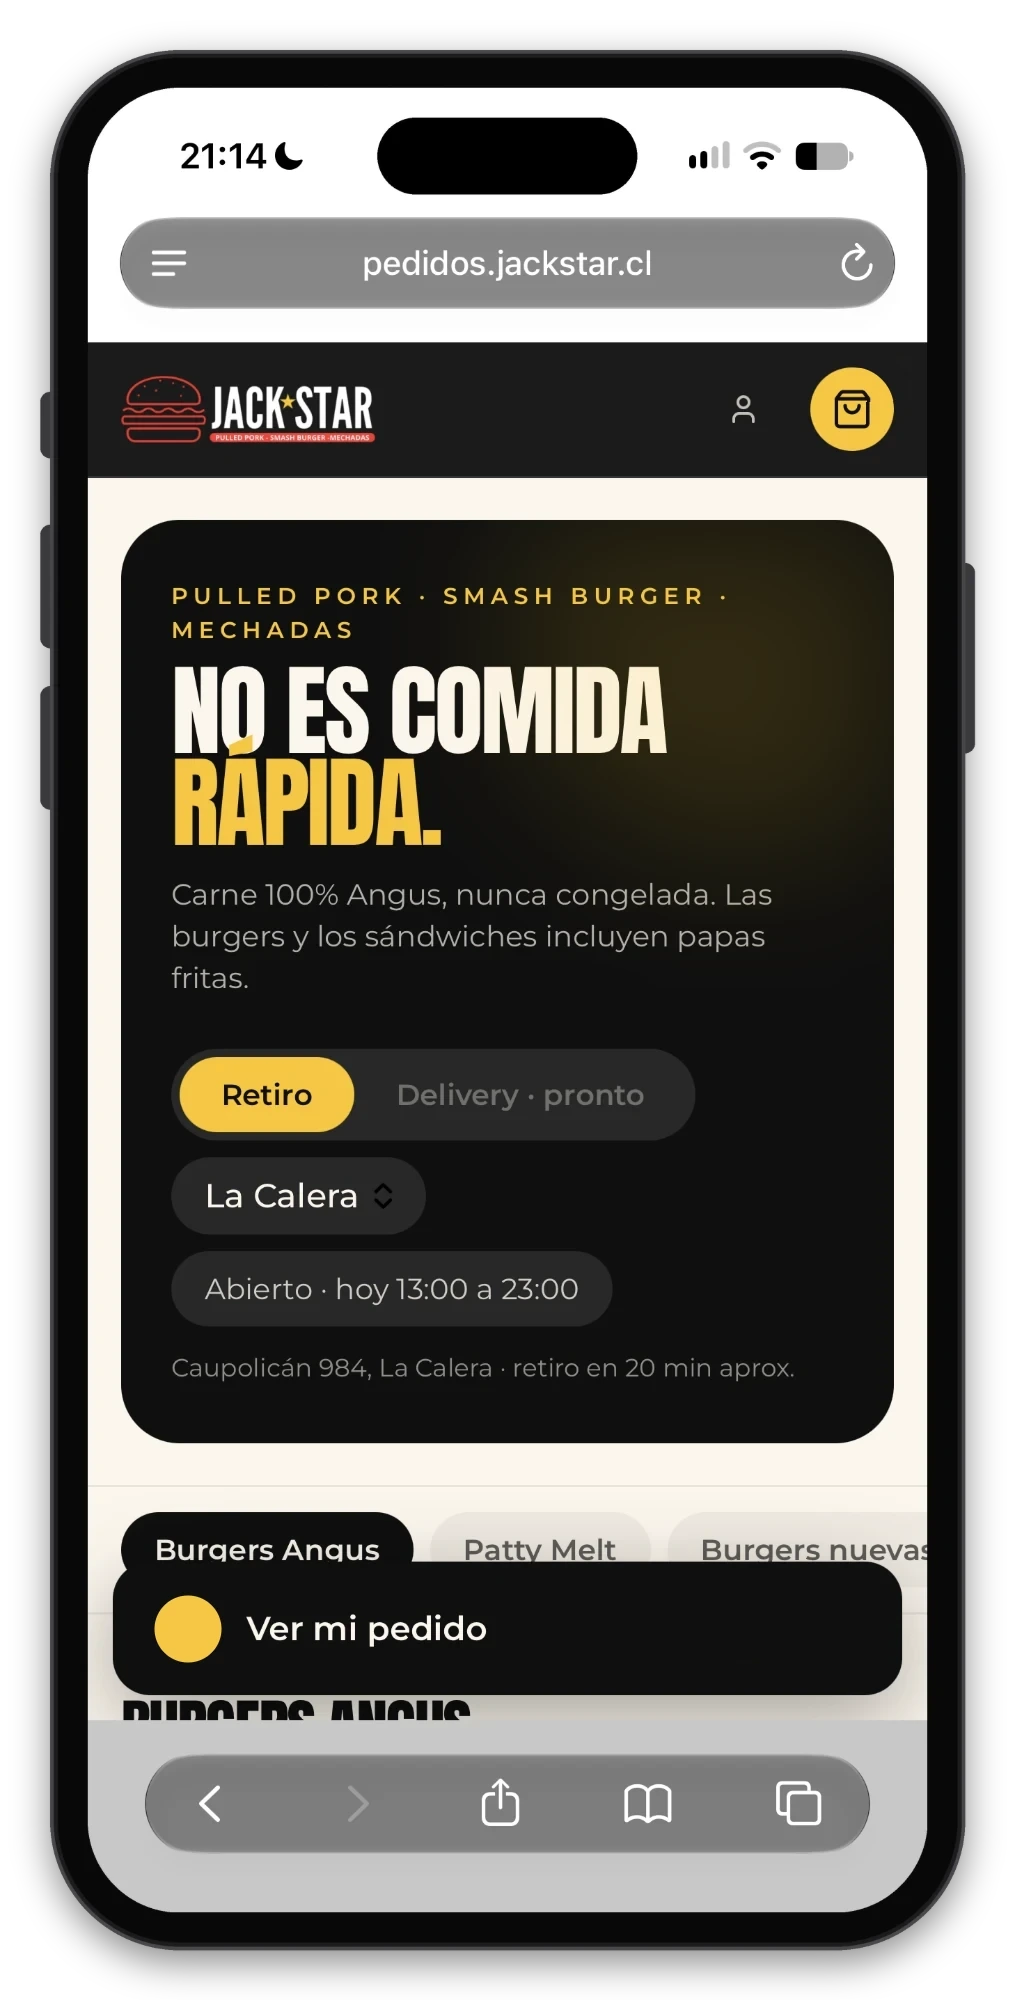
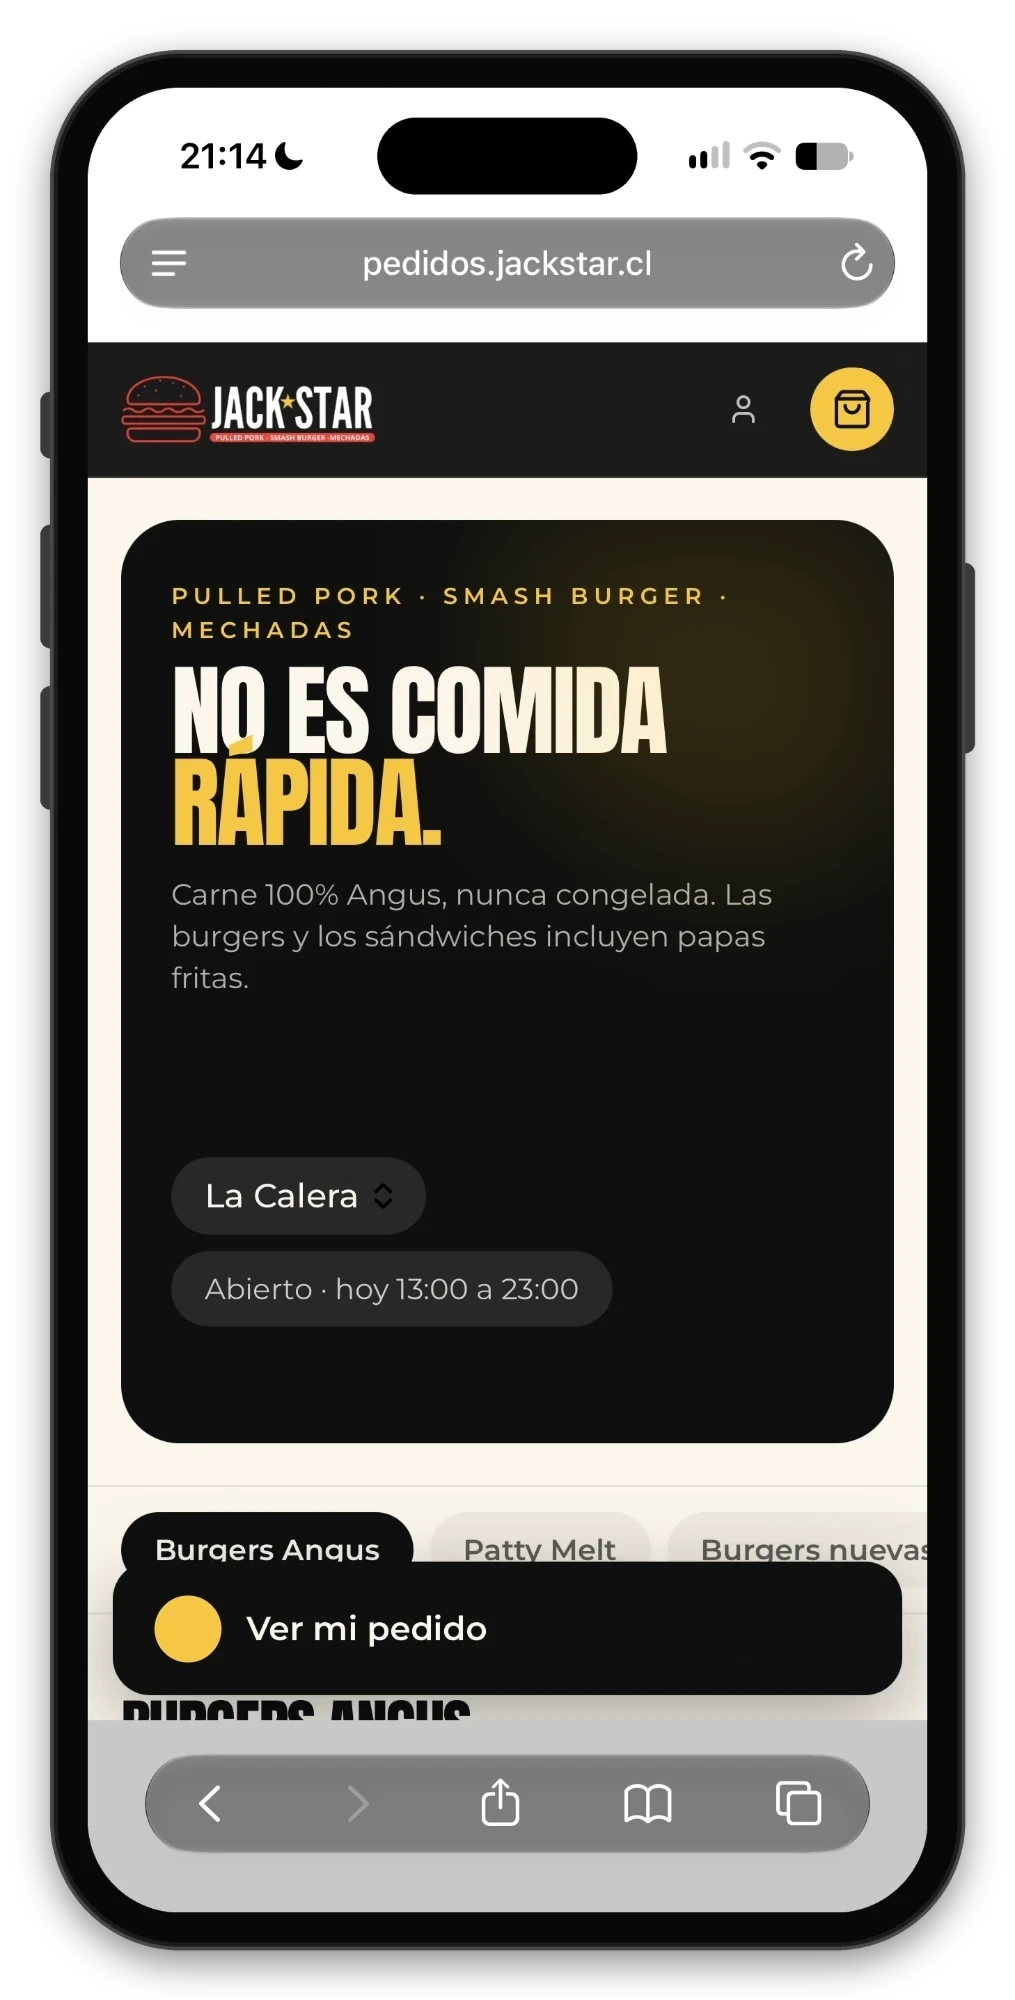
Pedidos online: delivery o retiro y seguimiento en vivo en la animación
- Textos de la sección hablan de delivery o retiro y del seguimiento en vivo
- El selector del mockup ahora es HTML y la animación lo pasa de Retiro a Delivery
- Tras confirmar el pedido sube una hoja de seguimiento: estados, mapa con la moto en ruta y minutos que bajan

Changed region(s): [[0.1527, 0.527, 0.7025, 0.589]]

diff --git a/index.html b/index.html
@@ -7,7 +7,7 @@
 <title>Jack Star — Hamburguesas de Culto</title>
 <link rel="preconnect" href="https://fonts.googleapis.com" />
 <link rel="preconnect" href="https://fonts.gstatic.com" crossorigin />
-<link href="https://fonts.googleapis.com/css2?family=Bebas+Neue&family=Playfair+Display:ital,wght@0,700;1,400&family=DM+Sans:wght@300;400;500&display=swap" rel="stylesheet" />
+<link href="https://fonts.googleapis.com/css2?family=Bebas+Neue&family=Playfair+Display:ital,wght@0,700;1,400&family=DM+Sans:wght@300;400;500&family=Montserrat:wght@500;600;700&display=swap" rel="stylesheet" />
 <link rel="icon" type="image/png" href="photos/favicon.png" />
 <link rel="apple-touch-icon" href="photos/favicon.png" />
 <style>
@@ -588,6 +588,61 @@
   .ph-toast small { display: block; font-size: 2.8cqw; color: #555; line-height: 1.3; }
   .ph-fly { position: absolute; width: 22%; aspect-ratio: 1; object-fit: cover; border-radius: 18%; border: .6cqw solid #f6c745; box-shadow: 0 3cqw 5cqw rgba(0,0,0,.5); opacity: 0; visibility: hidden; }
 
+  .ph-seg {
+    position: absolute; left: 16.95%; top: 52.45%; width: 51.53%; height: 4.6%;
+    display: flex; align-items: center; padding: 0 .79cqw; border-radius: 999px; background: #282828;
+    font-family: "Montserrat", sans-serif; font-weight: 600; font-size: 3cqw;
+  }
+  .ph-seg-knob { position: absolute; left: .79cqw; top: 50%; width: 17.14cqw; height: 7.29cqw; translate: 0 -50%; border-radius: 999px; background: #f4c745; }
+  .ph-seg-opt { position: relative; text-align: center; color: #71716f; transition: color .25s; }
+  .ph-seg-opt:first-of-type { width: 17.14cqw; }
+  .ph-seg-opt:last-of-type { flex: 1; }
+  .ph-seg-opt.is-on { color: #111; }
+  .ph-addr { position: absolute; left: 17.04%; top: 68.45%; translate: 0 -50%; white-space: nowrap; font-family: "Montserrat", sans-serif; font-weight: 500; font-size: 2.3cqw; color: #999997; }
+  .ph-addr-delivery { opacity: 0; }
+
+  .ph-track {
+    position: absolute; left: 8.67%; right: 8.67%; bottom: 14%;
+    padding: 4.4cqw 4.8cqw 5cqw; border-radius: 5cqw 5cqw 0 0;
+    background: #faf6ef; color: #111; font-family: "Montserrat", sans-serif;
+    box-shadow: 0 -3cqw 8cqw rgba(0,0,0,.45); opacity: 0; visibility: hidden;
+  }
+  .trk-head { display: flex; justify-content: space-between; align-items: center; }
+  .trk-head strong { font-size: 3.9cqw; font-weight: 700; }
+  .trk-live { display: inline-flex; align-items: center; gap: 1.2cqw; padding: .9cqw 2.2cqw; border-radius: 999px; background: #c8000a; color: #fff; font-size: 2.3cqw; font-weight: 600; letter-spacing: .12em; text-transform: uppercase; }
+  .trk-live i { width: 1.6cqw; height: 1.6cqw; border-radius: 50%; background: #fff; animation: livePing 1.2s ease-in-out infinite; }
+  .trk-eta { margin-top: 1.6cqw; font-size: 3cqw; font-weight: 500; color: #555; }
+  .trk-eta b { font-family: "Bebas Neue", sans-serif; font-weight: 400; font-size: 7.5cqw; color: #111; vertical-align: -.6cqw; }
+  .trk-map {
+    position: relative; margin-top: 2.6cqw; height: 30cqw; border-radius: 3cqw; overflow: hidden;
+    background-color: #1a1a1a;
+    background-image: linear-gradient(rgba(255,255,255,.05) 1px, transparent 1px), linear-gradient(90deg, rgba(255,255,255,.05) 1px, transparent 1px);
+    background-size: 6cqw 6cqw;
+  }
+  .trk-map svg { position: absolute; inset: 0; width: 100%; height: 100%; overflow: visible; }
+  .trk-route { fill: none; stroke: rgba(244,199,69,.35); stroke-width: 3; stroke-dasharray: 6 6; }
+  .trk-done { fill: none; stroke: #f4c745; stroke-width: 4; stroke-linecap: round; }
+  .trk-store { fill: #c8000a; stroke: #fff; stroke-width: 2; }
+  .trk-home { fill: #fff; stroke: #f4c745; stroke-width: 3; }
+  .trk-moto circle { fill: #f4c745; }
+  .trk-moto .trk-moto-ring { fill: rgba(244,199,69,.3); }
+  .trk-tag { position: absolute; font-size: 2.2cqw; font-weight: 600; color: rgba(255,255,255,.75); }
+  .trk-tag-a { left: 3cqw; bottom: 2.4cqw; }
+  .trk-tag-b { right: 3cqw; top: 2.2cqw; }
+  .trk-steps { position: relative; margin-top: 3.4cqw; display: grid; grid-template-columns: repeat(4, 1fr); text-align: center; }
+  .trk-bar { position: absolute; left: 12.5%; right: 12.5%; top: 1.1cqw; height: .6cqw; border-radius: 999px; background: #e3ddd2; }
+  .trk-fill { display: block; width: 0; height: 100%; border-radius: inherit; background: #c8000a; }
+  .trk-step { position: relative; padding-top: 4cqw; font-size: 2.3cqw; font-weight: 600; color: #a9a39a; transition: color .3s; }
+  .trk-step::before {
+    content: ""; position: absolute; top: 0; left: 50%; width: 2.8cqw; height: 2.8cqw; translate: -50% 0; border-radius: 50%;
+    background: #e3ddd2; transition: background .3s, box-shadow .3s;
+  }
+  .trk-step.is-on { color: #111; }
+  .trk-step.is-on::before { background: #c8000a; box-shadow: 0 0 0 1.2cqw rgba(200,0,10,.18); }
+  .online-chip i.live { background: var(--red); animation: liveDot 1.2s ease-in-out infinite; }
+  @keyframes livePing { 50% { opacity: .3; } }
+  @keyframes liveDot { 50% { box-shadow: 0 0 0 6px rgba(200,0,10,0); opacity: .5; } }
+
   .online-chip {
     position: absolute; z-index: 2; display: inline-flex; align-items: center; gap: .5rem;
     padding: .6rem 1rem; border-radius: 999px; white-space: nowrap;
@@ -599,7 +654,7 @@
   .online-chip b { color: var(--gold); font-weight: 500; }
   .online-chip i { width: 8px; height: 8px; border-radius: 50%; background: #2ecc71; box-shadow: 0 0 0 0 rgba(46,204,113,.6); animation: dotPing 1.8s infinite; }
   .chip-a { top: 9%; left: 2%; }
-  .chip-b { top: 46%; right: 0; animation-delay: -1.6s; }
+  .chip-b { top: 30%; right: 0; animation-delay: -1.6s; }
   .chip-c { bottom: 9%; left: 6%; animation-delay: -3.2s; }
   @keyframes chipFloat { 0%,100% { translate: 0 0; } 50% { translate: 0 -10px; } }
   @keyframes dotPing { 70% { box-shadow: 0 0 0 8px rgba(46,204,113,0); } 100% { box-shadow: 0 0 0 0 rgba(46,204,113,0); } }
@@ -619,7 +674,7 @@
     .online-cuenta { position: static; margin-top: .6rem; text-align: center; }
   }
   @media (prefers-reduced-motion: reduce) {
-    .btn-online, .online-nuevo::after, .online-ring, .online-chip, .online-chip i { animation: none !important; }
+    .btn-online, .online-nuevo::after, .online-ring, .online-chip, .online-chip i, .trk-live i { animation: none !important; }
   }
 </style>
 </head>
@@ -673,12 +728,12 @@
 <section id="pedir" class="online-section">
   <div class="online-copy">
     <div class="section-label">Nuevo · Pedidos online</div>
-    <h2 class="online-title">Pides en<br>un minuto.<br><span class="red">Retiras en 20.</span></h2>
-    <p class="online-sub">Elige tu local, arma tu pedido y pásalo a buscar. Sin llamadas y sin esperar respuesta por WhatsApp.</p>
+    <h2 class="online-title">Pides en<br>un minuto.<br><span class="red">Lo sigues en vivo.</span></h2>
+    <p class="online-sub">Delivery a tu casa o retiro en el local. Arma tu pedido y mira cómo avanza, desde la cocina hasta tu puerta. Sin llamadas y sin esperar respuesta por WhatsApp.</p>
     <ol class="online-steps">
-      <li class="online-step is-active"><span class="online-step-num">01</span><div><strong>Elige tu local</strong><span>Quillota o La Calera, retiro en el local.</span></div></li>
+      <li class="online-step is-active"><span class="online-step-num">01</span><div><strong>Delivery o retiro</strong><span>Te lo llevamos o lo pasas a buscar a Quillota o La Calera.</span></div></li>
       <li class="online-step"><span class="online-step-num">02</span><div><strong>Arma tu pedido</strong><span>Toda la carta, con tus agregados.</span></div></li>
-      <li class="online-step"><span class="online-step-num">03</span><div><strong>Confirma y retira</strong><span>Llegas, dices tu código y te lo llevas.</span></div></li>
+      <li class="online-step"><span class="online-step-num">03</span><div><strong>Síguelo en vivo</strong><span>Ves cuando entra a cocina, cuando sale y cuando llega.</span></div></li>
     </ol>
     <div class="online-wrap online-wrap-cta">
       <a href="https://pedidos.jackstar.cl" target="_blank" rel="noopener" class="btn-primary btn-online js-online is-locked" aria-disabled="true">
@@ -702,15 +757,37 @@
         <span class="ph-price">$17.400</span>
         <span class="ph-bar-hl"></span>
         <span class="ph-tap"></span>
-        <div class="ph-toast"><b>✓</b><div><strong>Pedido C-4 recibido</strong><small>Listo para retiro en 20 min</small></div></div>
+        <div class="ph-seg"><span class="ph-seg-knob"></span><span class="ph-seg-opt is-on">Retiro</span><span class="ph-seg-opt">Delivery</span></div>
+        <span class="ph-addr ph-addr-retiro">Caupolicán 984, La Calera · retiro en 20 min aprox.</span>
+        <span class="ph-addr ph-addr-delivery">Delivery a tu dirección · llega en 35 min aprox.</span>
+        <div class="ph-toast"><b>✓</b><div><strong>Pedido C-4 recibido</strong><small>Síguelo en vivo desde aquí</small></div></div>
+        <div class="ph-track">
+          <div class="trk-head"><strong>Pedido C-4</strong><span class="trk-live"><i></i>En vivo</span></div>
+          <div class="trk-eta">Llega en <b class="trk-min">35</b> min</div>
+          <div class="trk-map">
+            <svg viewBox="0 0 300 123">
+              <path class="trk-route" d="M26 98 C 84 104, 88 34, 148 50 S 238 106, 274 26" />
+              <path class="trk-done" d="M26 98 C 84 104, 88 34, 148 50 S 238 106, 274 26" />
+              <circle class="trk-store" cx="26" cy="98" r="8" />
+              <circle class="trk-home" cx="274" cy="26" r="8" />
+              <g class="trk-moto"><circle class="trk-moto-ring" r="12" /><circle r="7" /></g>
+            </svg>
+            <span class="trk-tag trk-tag-a">Jack Star</span>
+            <span class="trk-tag trk-tag-b">Tu casa</span>
+          </div>
+          <div class="trk-steps">
+            <div class="trk-bar"><span class="trk-fill"></span></div>
+            <span class="trk-step">Recibido</span><span class="trk-step">En cocina</span><span class="trk-step">En camino</span><span class="trk-step">Entregado</span>
+          </div>
+        </div>
         <img class="ph-fly" src="photos/burger-1-la-mas-pedida.jpg" alt="" />
         <img class="ph-fly" src="photos/burger-2-imprescindible.jpg" alt="" />
         <img class="ph-fly" src="photos/burger-3-favorita-del-local.jpg" alt="" />
       </div>
     </div>
     <div class="online-chip chip-a" aria-hidden="true"><i></i>Abierto hoy · 13:00 a 23:00</div>
-    <div class="online-chip chip-b" aria-hidden="true">Retiro en <b>20 min</b></div>
-    <div class="online-chip chip-c" aria-hidden="true">Delivery · <b>muy pronto</b></div>
+    <div class="online-chip chip-b" aria-hidden="true">Delivery <b>o</b> retiro</div>
+    <div class="online-chip chip-c" aria-hidden="true"><i class="live"></i>Seguimiento <b>en vivo</b></div>
   </div>
 </section>
 
@@ -1162,14 +1239,42 @@
       .to(tap, { scale: 1.7, opacity: 0, duration: .6, ease: "power2.out" });
     const salidas = [{ l: -38, t: 42, r: -25 }, { l: 128, t: 34, r: 20 }, { l: -34, t: 64, r: -15 }];
 
-    const tl = gsap.timeline({ paused: true, repeat: -1, repeatDelay: .5 });
-    tl.call(() => { estado.n = 0; estado.p = 0; pintar(); paso(0)(); }, null, 0)
+    const knob = q(".ph-seg-knob")[0], opts = q(".ph-seg-opt"), addrR = q(".ph-addr-retiro")[0], addrD = q(".ph-addr-delivery")[0];
+    const track = q(".ph-track")[0], fill = q(".trk-fill")[0], trkPasos = q(".trk-step"), eta = q(".trk-eta")[0];
+    const ruta = q(".trk-done")[0], moto = q(".trk-moto")[0], largo = ruta.getTotalLength();
+    const viaje = { t: 0 };
+    const mover = () => {
+      const pt = ruta.getPointAtLength(viaje.t * largo);
+      moto.setAttribute("transform", `translate(${pt.x} ${pt.y})`);
+      ruta.style.strokeDashoffset = largo * (1 - viaje.t);
+    };
+    ruta.style.strokeDasharray = largo;
+    const minutos = { m: 35 };
+    const pintarEta = () => { eta.innerHTML = `Llega en <b class="trk-min">${Math.round(minutos.m)}</b> min`; };
+    const trkPaso = i => () => trkPasos.forEach((el, j) => el.classList.toggle("is-on", j <= i));
+    const modo = delivery => () => {
+      opts[0].classList.toggle("is-on", !delivery); opts[1].classList.toggle("is-on", delivery);
+    };
+
+    const tl = gsap.timeline({ paused: true, repeat: -1, repeatDelay: .4 });
+    tl.call(() => {
+        estado.n = 0; estado.p = 0; pintar(); paso(0)(); modo(false)();
+        viaje.t = 0; mover(); minutos.m = 35; pintarEta(); trkPaso(-1)();
+      }, null, 0)
       .set(badge, { scale: 0 }, 0)
       .set(toast, { opacity: 0, y: -24, scale: .96 }, 0)
       .set(flies, { autoAlpha: 0 }, 0)
-      .add(toque(26.3, 54.75), .35)
-      .fromTo(chips[1], { scale: 1 }, { scale: 1.08, duration: .2, yoyo: true, repeat: 1 }, .5)
-      .add(toque(29.5, 59.75), 1.15)
+      .set(knob, { left: ".79cqw", width: "17.14cqw" }, 0)
+      .set(addrR, { opacity: 1 }, 0).set(addrD, { opacity: 0 }, 0)
+      .set(track, { autoAlpha: 0, yPercent: 100 }, 0)
+      .set(fill, { width: "0%" }, 0)
+      .add(toque(51, 54.75), .35)
+      .fromTo(knob, { left: ".79cqw", width: "17.14cqw" }, { left: "18.6cqw", width: "31.9cqw", duration: .5, ease: "power3.inOut" }, .45)
+      .call(modo(true), null, .6)
+      .to(addrR, { opacity: 0, duration: .25 }, .6)
+      .fromTo(addrD, { opacity: 0, x: 8 }, { opacity: 1, x: 0, duration: .35 }, .75)
+      .fromTo(chips[1], { scale: 1 }, { scale: 1.08, duration: .2, yoyo: true, repeat: 1 }, .6)
+      .add(toque(29.5, 59.75), 1.3)
       .call(paso(1), null, 1.9);
 
     flies.forEach((f, k) => {
@@ -1188,8 +1293,22 @@
     tl.call(paso(2), null, 5.2)
       .add(toque(49.3, 81.4), 5.5)
       .fromTo(barHl, { opacity: 0 }, { opacity: 1, duration: .2, yoyo: true, repeat: 1 }, 5.5)
-      .to(toast, { opacity: 1, y: 0, scale: 1, duration: .55, ease: "back.out(1.8)" }, 6)
-      .to(toast, { opacity: 0, y: -16, duration: .35, ease: "power2.in" }, 8.6);
+      .to(toast, { opacity: 1, y: 0, scale: 1, duration: .55, ease: "back.out(1.8)" }, 5.9)
+      .to(toast, { opacity: 0, y: -16, duration: .3, ease: "power2.in" }, 7.1)
+      // Seguimiento en vivo: la hoja sube y el pedido avanza hasta la puerta
+      .to(track, { autoAlpha: 1, yPercent: 0, duration: .65, ease: "back.out(1.1)" }, 7.2)
+      .call(trkPaso(0), null, 7.8)
+      .to(fill, { width: "33.3%", duration: .5, ease: "power2.inOut" }, 8.4)
+      .call(trkPaso(1), null, 8.8)
+      .to(minutos, { m: 24, duration: 1, ease: "none", onUpdate: pintarEta }, 8.4)
+      .to(fill, { width: "66.6%", duration: .5, ease: "power2.inOut" }, 9.5)
+      .call(trkPaso(2), null, 9.9)
+      .to(viaje, { t: 1, duration: 2.6, ease: "power1.inOut", onUpdate: mover }, 9.9)
+      .to(minutos, { m: 1, duration: 2.6, ease: "none", onUpdate: pintarEta }, 9.9)
+      .to(fill, { width: "100%", duration: .4, ease: "power2.inOut" }, 12.5)
+      .call(() => { trkPaso(3)(); eta.innerHTML = "<b>¡Llegó!</b> Buen provecho"; }, null, 12.8)
+      .fromTo(q(".trk-moto-ring")[0], { attr: { r: 12 } }, { attr: { r: 24 }, duration: .3, yoyo: true, repeat: 1 }, 12.8)
+      .to(track, { autoAlpha: 0, yPercent: 100, duration: .45, ease: "power2.in" }, 14.4);
 
     ScrollTrigger.create({ trigger: sec, start: "top 70%", end: "bottom 25%", onToggle: self => self.isActive ? tl.play() : tl.pause() });
   })();
